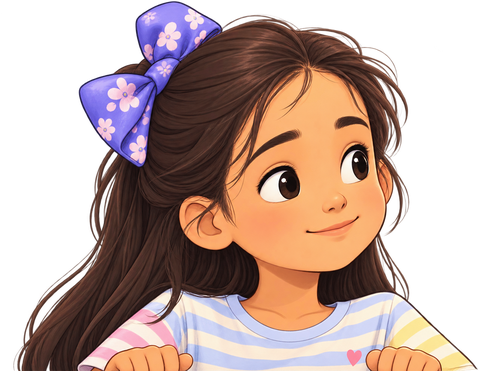
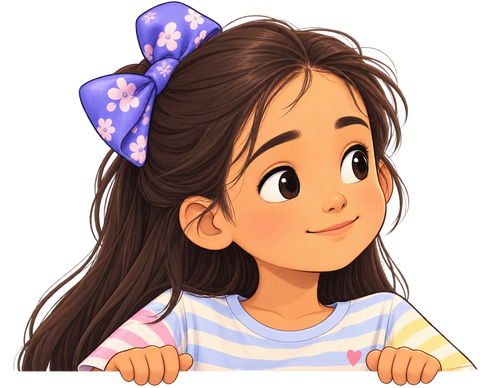
Layan's fingers over the card edge, simpler Meals page, reference range on graphs (0.11.1)
The artwork's painted card strip is made transparent instead of trimmed, so her fingers overlap the
glucose card's top border. Meals: one compact row per suggestion (photo, name, carbs, one button);
the missing-data explanation folds into one line; duplicate links and the last-meal block removed.
Graphs: until the parents set her range, the international reporting range 70-180 mg/dL is drawn
dashed and labelled «مرجعي»; their own range replaces it.

Claude-Session: https://claude.ai/code/session_01ST6D64FeriMyToj6bu35JS

diff --git a/src/pages/Today.tsx b/src/pages/Today.tsx
@@ -43,43 +43,37 @@ export default function Today() {
 
   return (
     <Page title="الوجبات">
-      <p className="-mt-2 mb-3 text-slate-500">{dayName(today)} {fmtDate(today)}</p>
       <div className="-mx-4 mb-4 flex gap-2 overflow-x-auto px-4">
         {[['/recipes', 'الوصفات'], ['/products', 'المنتجات'], ['/plan', 'خطة الأيام'], ['/snacks', 'السناكات']].map(([to, l]) => (
           <Link key={to} to={to} className="shrink-0 rounded-full bg-white px-4 py-2 text-sm font-medium ring-1 ring-slate-200">{l}</Link>
         ))}
       </div>
 
-      <h2 className="mb-2 text-lg font-bold">وجبات اليوم</h2>
-      <div className="space-y-4">
+      <h2 className="mb-2 text-lg font-bold">اقتراحات اليوم</h2>
+      <div className="space-y-2.5">
         {picks.map((c) => <MealCard key={c.recipe.id} recipe={c.recipe} meal={c.meal} chosenToday={chosenToday.has(c.recipe.id)} />)}
       </div>
       {eligible > 3 && <Btn block kind="ghost" className="mt-3" onClick={more}>اقتراحات أخرى</Btn>}
 
-      {picks.length < 3 && (
-        <Card className="mt-4 space-y-3">
-          <h3 className="font-bold">{picks.length === 0 ? 'لا توجد وجبات جاهزة للاقتراح بعد' : 'وجبات ناقصة'}</h3>
-          <p className="text-sm text-slate-600">التطبيق لا يخمّن الكارب. أي وصفة تنقصها بيانات لا تُقترح حتى تُستكمل:</p>
-          {missing.items.length > 0 && (
-            <ul className="space-y-1.5 text-sm">
-              {missing.items.slice(0, 8).map(([key, n]) => {
-                const [what, problem] = key.split('|');
-                return (
-                  <li key={key} className="flex items-center justify-between gap-2 rounded-xl bg-slate-50 px-3 py-2">
-                    <span><b>{what}</b> — {PROBLEM_TEXT[problem as keyof typeof PROBLEM_TEXT]}</span>
-                    {(problem === 'no_product') && <Link className="shrink-0 text-brand underline" to={`/products/new?category=${encodeURIComponent(what)}`}>إضافة</Link>}
-                    <span className="shrink-0 text-xs text-slate-400">{n} وصفة</span>
-                  </li>
-                );
-              })}
-            </ul>
-          )}
-          {missing.pending.length > 0 && (
-            <Alert tone="near">
-              الكارب غير مكتمل في: {missing.pending.join('، ')}. افتح الوصفة، أكمل حساب القدر، ثم أزل علامة "الكارب غير مكتمل".
-            </Alert>
-          )}
-        </Card>
+      {picks.length < 3 && (missing.items.length > 0 || missing.pending.length > 0) && (
+        <details className="mt-3 rounded-2xl border border-slate-100 bg-white px-4 py-3">
+          <summary className="flex min-h-[32px] cursor-pointer list-none items-center justify-between text-sm font-medium text-near">
+            <span>{missing.items.length + missing.pending.length} وصفات تنقصها بيانات</span><span className="text-slate-400">‹</span>
+          </summary>
+          <ul className="mt-2 space-y-1.5 text-sm">
+            {missing.items.slice(0, 8).map(([key, n]) => {
+              const [what, problem] = key.split('|');
+              return (
+                <li key={key} className="flex items-center justify-between gap-2 rounded-xl bg-slate-50 px-3 py-2">
+                  <span><b>{what}</b> · {PROBLEM_TEXT[problem as keyof typeof PROBLEM_TEXT]}</span>
+                  {problem === 'no_product' ? <Link className="shrink-0 text-brand underline" to={`/products/new?category=${encodeURIComponent(what)}`}>إضافة</Link>
+                    : <span className="shrink-0 text-xs text-slate-400">{n}</span>}
+                </li>
+              );
+            })}
+            {missing.pending.map((name) => <li key={name} className="rounded-xl bg-slate-50 px-3 py-2"><b>{name}</b> · الكارب غير مكتمل</li>)}
+          </ul>
+        </details>
       )}
 
       <h2 className="mb-2 mt-8 text-lg font-bold">السناكات</h2>
@@ -89,28 +83,15 @@ export default function Today() {
           return (
             <Card key={s.id} className="space-y-2 !p-3">
               <Photo path={s.image_path} category={s.name} art={snackArt(s.name)} className="h-20 w-full rounded-xl" />
-              <div className="font-bold">{s.name}</div>
-              <div className="text-xs text-slate-500"><span className="num">{fmt(s.quantity)}</span> {s.unit === 'g' ? 'غ' : s.unit === 'ml' ? 'مل' : s.unit === 'tbsp' ? 'ملعقة' : 'حبة'}</div>
-              {meal.complete ? <CarbBadge carbs={meal.total.carbs} level="normal" /> : <span className="text-xs text-slate-500">{PROBLEM_TEXT[meal.lines[0].problem ?? 'no_product']}</span>}
+              <div className="truncate font-bold">{s.name}</div>
+              <CarbBadge carbs={meal.total.carbs} level="normal" size="sm" unknown={!meal.complete} />
               <Btn block disabled={busy || !meal.complete}
                 onClick={() => choose({ kind: 'snack', recipe_id: null, name: s.name, category: 'سناك', meal, modified: false })}>اخترناه</Btn>
             </Card>
           );
         })}
       </div>
-      <Link to="/snacks" className="mt-2 block text-center text-sm text-brand underline">إدارة السناكات</Link>
-
-      <h2 className="mb-2 mt-8 text-lg font-bold">آخر وجبة اخترناها</h2>
-      {last ? (
-        <Card>
-          <div className="text-sm text-slate-500">{relDay(new Date(last.eaten_at))} {fmtTime(new Date(last.eaten_at))}</div>
-          <div className="text-lg font-bold">{last.name}</div>
-          <div className="text-xl font-bold text-brand"><span className="num">{fmt(last.total_carbs)}</span> غ كارب</div>
-        </Card>
-      ) : <Card><p className="text-slate-500">لم تُسجَّل وجبات بعد.</p></Card>}
-
-      <Link to="/plan" className="mt-6 grid min-h-[48px] place-items-center rounded-xl bg-brand-soft font-medium text-brand">تخطيط عدة أيام وقائمة الشراء</Link>
-      {recipes.length === 0 && <Alert tone="info">لا توجد وصفات بعد. ابدأ من تبويب الوصفات.</Alert>}
+      {recipes.length === 0 && <div className="mt-4"><Alert tone="info">لا توجد وصفات بعد.</Alert></div>}
     </Page>
   );
 }

diff --git a/src/pages/Now.tsx b/src/pages/Now.tsx
@@ -142,7 +142,7 @@ function LayanHeader({ alertCount }: { alertCount: number }) {
   const heart = 'M12 20.5s-7.5-4.6-7.5-10A4.3 4.3 0 0 1 12 7.6a4.3 4.3 0 0 1 7.5 2.9c0 5.4-7.5 10-7.5 10z';
   const hearts: [number, number, number, number][] = [[-100, 30, 15, -12], [-90, 72, 12, 10], [80, 14, 14, 14], [94, 56, 17, -8]]; // dx from centre, y, size, rotation
   return (
-    <header className="relative z-10 -mb-1 flex h-[120px] items-start justify-between">
+    <header className="relative z-10 flex h-[120px] items-start justify-between">
       <Link to="/alerts" aria-label={alertCount ? `التنبيهات: ${alertCount} مفتوح` : 'التنبيهات'} className="relative grid h-12 w-12 place-items-center rounded-full text-slate-600">
         <Icon name="bell" size={30} />
         {alertCount > 0 && <span className="absolute end-2.5 top-2 h-2.5 w-2.5 rounded-full bg-over-fill ring-2 ring-[rgb(var(--bg))]" />}
@@ -156,7 +156,8 @@ function LayanHeader({ alertCount }: { alertCount: number }) {
         ))}
         <picture>
           <source srcSet={asset('09_brand/layan_peek.webp')} type="image/webp" />
-          <img src={asset('09_brand/layan_peek.png')} alt="" className="absolute bottom-0 left-0 w-full select-none" draggable={false} />
+          {/* the artwork's card edge sits at 95.5% of its height: her fingers hang over the card's top border */}
+          <img src={asset('09_brand/layan_peek.png')} alt="" className="absolute left-0 w-full select-none" style={{ bottom: 'calc(-0.0454 * 156px * 388 / 480)' }} draggable={false} />
         </picture>
       </div>
       <Link to="/more" aria-label="الحساب والمزيد" className="grid h-12 w-12 place-items-center rounded-full text-slate-600">
@@ -208,8 +209,16 @@ function Graph({ readings, low, high, meals, insulin, carbs, unit }: { readings:
   return (
     <svg viewBox={`0 0 ${W} ${H}`} className="mt-3 w-full" role="img" aria-label="آخر 3 ساعات" direction="ltr">
       <rect x="0" y={TOP - 4} width={PW} height={PH + 8} rx="10" fill="rgb(var(--surface-2))" />
-      {(low !== null || high !== null) && (
+      {low !== null || high !== null ? (
         <rect x="0" y={y(high ?? hi)} width={PW} height={Math.max(0, y(low ?? lo) - y(high ?? hi))} fill="rgb(var(--st-in))" opacity="0.14" />
+      ) : (
+        // no range set yet: the international reporting range, dashed and labelled as a reference only
+        <g>
+          <rect x="0" y={y(180)} width={PW} height={y(70) - y(180)} fill="rgb(var(--st-in))" opacity="0.08" />
+          <line x1="0" x2={PW} y1={y(180)} y2={y(180)} stroke="rgb(var(--st-in))" strokeOpacity="0.55" strokeDasharray="4 4" />
+          <line x1="0" x2={PW} y1={y(70)} y2={y(70)} stroke="rgb(var(--st-in))" strokeOpacity="0.55" strokeDasharray="4 4" />
+          <text x="4" y={y(180) - 3} fontSize="9.5" fill="rgb(var(--st-in-text))" fillOpacity="0.85" fontFamily="Rubik, system-ui" direction="rtl" textAnchor="end">{`مرجعي ${formatGlucose(70, unit)} إلى ${formatGlucose(180, unit)}`}</text>
+        </g>
       )}
       {ticks.map((v) => (
         <text key={v} x={W - 2} y={y(v) + 4} textAnchor="end" fontSize="10.5" fill="rgb(var(--text-3))" fontFamily="Rubik, system-ui">{formatGlucose(v, unit).replace(/\.0$/, '')}</text>

diff --git a/src/engine/Timeline.tsx b/src/engine/Timeline.tsx
@@ -16,6 +16,7 @@ const pathsOf = (n: IconName) => { let p = iconPaths.get(n); if (!p) { p = (ICON
 export interface Range { low: number | null; high: number | null } // the parents' range, mg/dL
 export interface Inspect { t: number; i: number | null; x: number }
 
+const REF_LOW = 70, REF_HIGH = 180; // international reporting range (mg/dL), shown only until the parents set hers
 const LONG_PRESS = 350, TAP_SLOP = 8, DOUBLE_TAP = 300;
 const css = (name: string, a = 1) => {
   const v = getComputedStyle(document.documentElement).getPropertyValue(name).trim();
@@ -66,12 +67,21 @@ export function Timeline({ series, view, now, onView, range, unit, height, marks
     const Y = (v: number) => PAD_T + plotH - ((Math.min(Math.max(v, y0), y1) - y0) / (y1 - y0)) * plotH;
     const X = (t: number) => ((t - start) / span) * width;
 
-    // target band: the parents' range, only if they set one
-    if (range.low !== null || range.high !== null) {
-      const top = Y(range.high ?? y1), bot = Y(range.low ?? y0);
-      g.fillStyle = css('--st-in', 0.13); g.fillRect(0, top, width, bot - top);
-      g.strokeStyle = css('--st-in', 0.45); g.lineWidth = 1; g.setLineDash([]);
-      for (const v of [range.low, range.high]) if (v !== null) { g.beginPath(); g.moveTo(0, Y(v) + 0.5); g.lineTo(width, Y(v) + 0.5); g.stroke(); }
+    // target band: the parents' range when they set one; until then the international reporting range
+    // (70–180 mg/dL), dashed and labelled «مرجعي» so it is never mistaken for her own target
+    {
+      const own = range.low !== null || range.high !== null;
+      const lo = own ? range.low : REF_LOW, hi = own ? range.high : REF_HIGH;
+      const top = Y(hi ?? y1), bot = Y(lo ?? y0);
+      g.fillStyle = css('--st-in', own ? 0.13 : 0.07); g.fillRect(0, top, width, bot - top);
+      g.strokeStyle = css('--st-in', own ? 0.45 : 0.5); g.lineWidth = 1; g.setLineDash(own ? [] : [4, 4]);
+      for (const v of [lo, hi]) if (v !== null) { g.beginPath(); g.moveTo(0, Y(v) + 0.5); g.lineTo(width, Y(v) + 0.5); g.stroke(); }
+      g.setLineDash([]);
+      if (!own) {
+        g.font = '500 10.5px Rubik, system-ui, sans-serif'; g.fillStyle = css('--st-in-text', 0.85); g.textAlign = 'left'; g.textBaseline = 'top'; g.direction = 'rtl';
+        g.fillText(`مرجعي ${formatGlucose(REF_LOW, unit)} إلى ${formatGlucose(REF_HIGH, unit)}`, 6, top + 4);
+        g.direction = 'ltr';
+      }
     }
 
     // glucose grid labels (right edge), in the parents' unit

diff --git a/src/components/meal.tsx b/src/components/meal.tsx
@@ -35,27 +35,22 @@ export function useChoose() {
   };
 }
 
+/** One row per suggestion: photo, name, carbs, and the one action. Tapping the row opens the recipe. */
 export function MealCard({ recipe, meal, chosenToday }: { recipe: Recipe; meal: MealResult; chosenToday?: boolean }) {
   const { choose, busy } = useChoose();
   return (
-    <Card className="overflow-hidden !p-0">
-      <Link to={`/recipes/${recipe.id}`}>
-        <Photo path={recipe.image_path} category={recipe.category} art={recipeArt(recipe.category)} className="h-40 w-full" />
+    <Card className="flex items-center gap-3 !p-3">
+      <Link to={`/recipes/${recipe.id}`} className="flex min-w-0 flex-1 items-center gap-3">
+        <Photo path={recipe.image_path} category={recipe.category} art={recipeArt(recipe.category)} className="h-16 w-16 shrink-0 rounded-xl" />
+        <span className="min-w-0">
+          <span className="block truncate font-bold">{recipe.name}</span>
+          <span className="mt-1 block"><CarbBadge carbs={meal.total.carbs} level={meal.level} unknown={!meal.complete} size="sm" /></span>
+        </span>
       </Link>
-      <div className="space-y-3 p-4">
-        <div className="flex items-start justify-between gap-3">
-          <h3 className="text-xl font-bold leading-snug">{recipe.name}</h3>
-          <CarbBadge carbs={meal.total.carbs} level={meal.level} unknown={!meal.complete} />
-        </div>
-        <p className="text-sm text-slate-500">{mainNames(meal)}</p>
-        <div className="grid grid-cols-2 gap-2">
-          <Link to={`/recipes/${recipe.id}`} className="grid min-h-[44px] place-items-center rounded-xl bg-white text-base font-medium text-slate-700 ring-1 ring-slate-200">عرض الوصفة</Link>
-          <Btn kind="primary" disabled={busy || chosenToday}
-            onClick={() => choose({ kind: 'meal', recipe_id: recipe.id, name: recipe.name, category: recipe.category, meal, modified: false })}>
-            {chosenToday ? 'اخترناها ✓' : 'اخترناها اليوم'}
-          </Btn>
-        </div>
-      </div>
+      <Btn kind={chosenToday ? 'soft' : 'primary'} className="shrink-0 !px-3" disabled={busy || chosenToday}
+        onClick={() => choose({ kind: 'meal', recipe_id: recipe.id, name: recipe.name, category: recipe.category, meal, modified: false })}>
+        {chosenToday ? '✓ اخترناها' : 'اخترناها'}
+      </Btn>
     </Card>
   );
 }

diff --git a/src/components/ui.tsx b/src/components/ui.tsx
@@ -119,14 +119,16 @@ const LEVEL = {
   over: { cls: 'bg-over-soft text-over', text: 'تتجاوز الحد' },
 } as const;
 
-export function CarbBadge({ carbs, level, size = 'md', unknown }: { carbs: number; level: Level; size?: 'md' | 'lg'; unknown?: boolean }) {
+export function CarbBadge({ carbs, level, size = 'md', unknown }: { carbs: number; level: Level; size?: 'sm' | 'md' | 'lg'; unknown?: boolean }) {
   if (unknown) return <span className="rounded-xl bg-slate-100 px-3 py-1 text-sm text-slate-500">كارب غير مكتمل</span>;
   return (
-    <span className={cx('inline-flex shrink-0 items-baseline gap-1 whitespace-nowrap rounded-xl px-3 py-1 font-bold', LEVEL[level].cls, size === 'lg' ? 'text-4xl' : 'text-2xl')}>
+    <span className={cx('inline-flex shrink-0 items-baseline gap-1 whitespace-nowrap rounded-xl font-bold', LEVEL[level].cls,
+      size === 'lg' ? 'px-3 py-1 text-4xl' : size === 'sm' ? 'px-2 py-0.5 text-lg' : 'px-3 py-1 text-2xl')}>
       <span className="num">{fmt(carbs)}</span><span className="whitespace-nowrap text-sm font-medium">غ كارب</span>
     </span>
   );
 }
+
 export const levelText = (l: Level) => LEVEL[l].text;
 
 export function Field({ label, hint, children }: { label: string; hint?: string; children: ReactNode }) {
